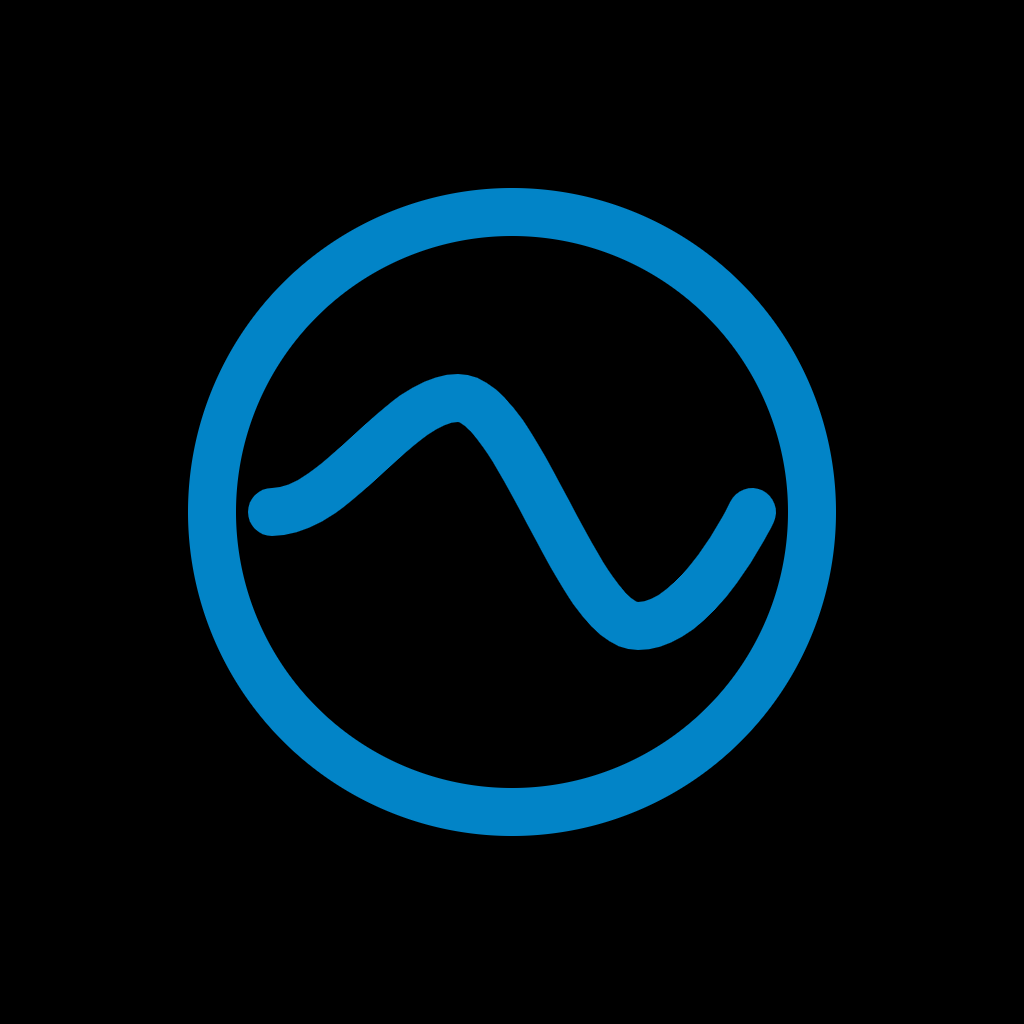
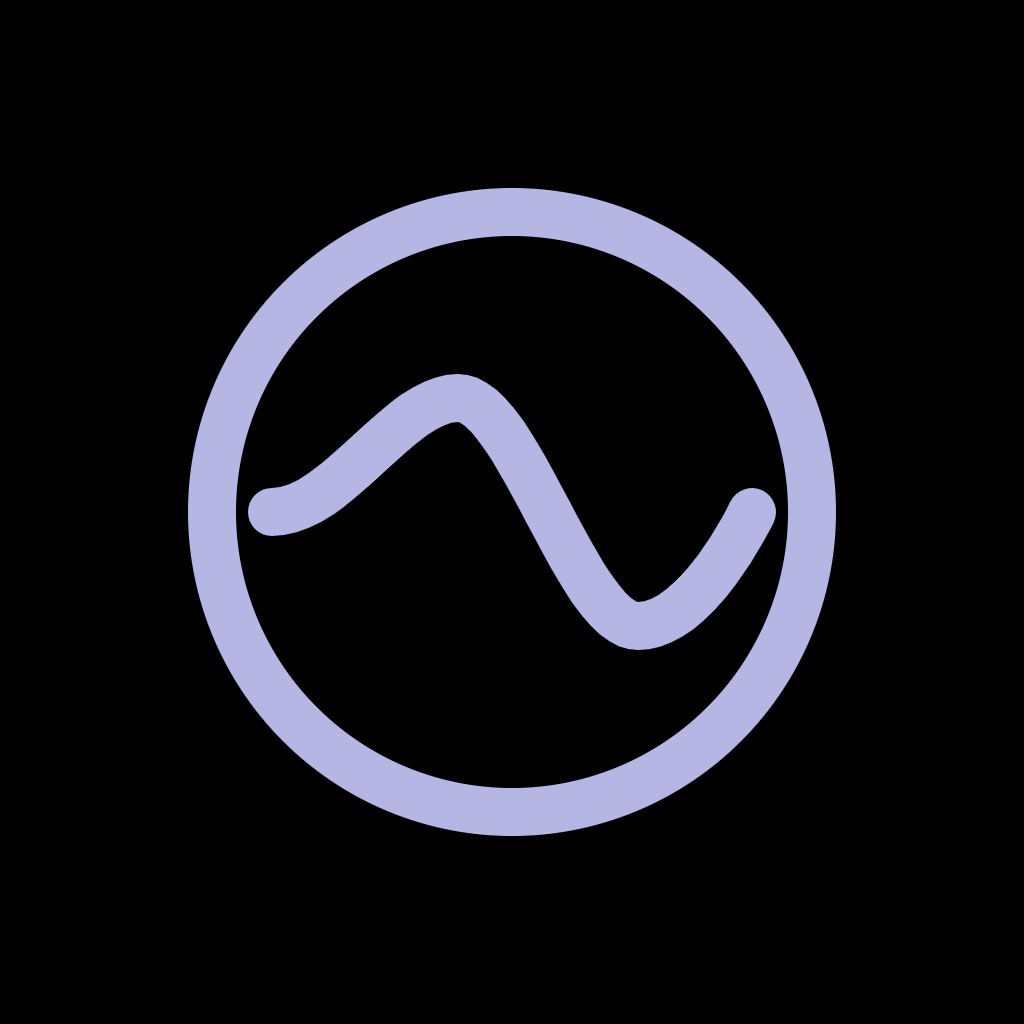
Nuevo --accent

Changed region(s): [[0.1562, 0.1562, 0.8438, 0.8438]]

diff --git a/index.html b/index.html
@@ -13,6 +13,7 @@
   <meta name="author" content="Juan Cabeza">
   <meta name="copyright" content="2025 Resonate Player">
   <meta name="mobile-web-app-capable" content="yes">
+  <meta name="theme-color" content="#000000">
   <link rel="icon" type="image/svg+xml" href="icons/favicon.svg" />
   <link rel="apple-touch-icon" href="icons/maskable_icon_x192.png" />
   <meta name="apple-mobile-web-app-capable" content="yes">

diff --git a/css/resonate.css b/css/resonate.css
@@ -1,9 +1,9 @@
 /* ===== VARIABLES & RESET ===== */
 :root {
-  --bg: #0b0f1a;
+  --bg: #000;
   --fg: #f8fafc;
   --muted: #94a3b8;
-  --accent: #0284c7;
+  --accent: #B6B6E5;
   --accent-alt: #38bdf8;
   --highlight: #f472b6;
   --secondary: #fbbf24;
@@ -13,6 +13,8 @@
   --error: #ef4444;
   /* rojo coral */
 }
+
+
 
 * {
   margin: 0;
